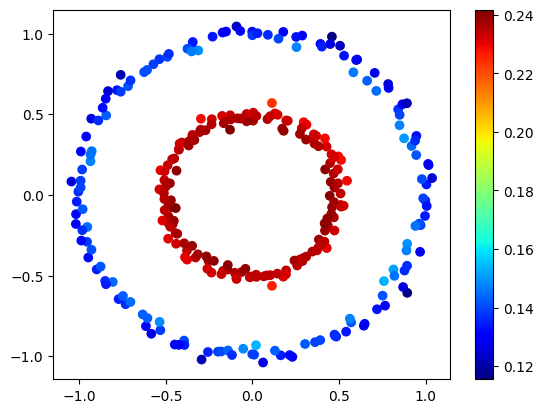
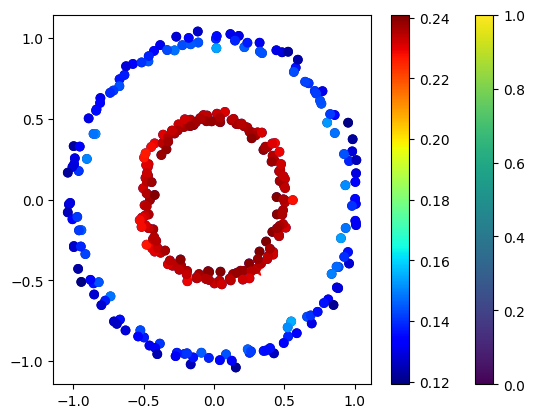
Adds results for circles

Changed region(s): [[0.0299, 0.0291, 0.8374, 0.9879], [0.8673, 0.0, 0.9869, 0.9588]]

diff --git a/src/diffusion_distances.py b/src/diffusion_distances.py
@@ -15,9 +15,13 @@ from sklearn.datasets import make_circles, make_blobs, make_swiss_roll
 
 def main():
     sigma = 0.175
-    X, t = make_swiss_roll(n_samples=1000)
 
-    # X, y = make_circles(n_samples=300, noise=0.03, factor=0.5)
+    X, y = make_circles(n_samples=300, noise=0.03, factor=0.5)
+    animate_diffusion(
+        X, sigma, 1e8, "_circles", plot_heatmap=True, animate=True)
+    lund(X, sigma, t=1e8, k=2, t_max=1e6,
+        plot_stub="_circles", animate_clustering=True, amimate_time_search=True)
+
     X, y = make_blobs(n_samples=[100]*16, cluster_std=0.5)
     
     X, y = make_bottleneck(100)
@@ -54,8 +58,10 @@ def animate_diffusion(X, sigma, t_max, stub, plot_heatmap=False, animate=False):
 
     # Hacky way to create an animated plot
     t = 1.0
-    paths = []
+    scatter_paths = []
+    heatmap_paths = []
     while t < t_max:
+        print(t)
         D = diffusion_distances(U, V, t)
         if X.shape[1] == 2:
             plt.scatter(X[:,0], X[:,1], c=D[:,1], cmap=plt.cm.jet)
@@ -68,31 +74,30 @@ def animate_diffusion(X, sigma, t_max, stub, plot_heatmap=False, animate=False):
             ax.scatter(X[ix,0], X[ix,1], X[ix,2], marker="*", s=100, c="red")
             ax.view_init(elev=18, azim=73)
 
-        plt.title("$t = {}$".format(int(t)))
+        plt.title("$t = 10^{{{:.3f}}}$".format(np.log10(t)))
         plt.axis("off")
         p = "../temp/dists{:.3f}.png".format(t)
-        paths.append(p)
+        scatter_paths.append(p)
         plt.savefig(p, bbox_inches="tight")
         plt.close()
 
         if plot_heatmap:
             plt.imshow(D, cmap="viridis")
-            plt.title("$t = {}".format(t))
-            plt.savefig("../temp/heatmap{}.png".format(t), bbox_inches="tight")
+            plt.title("$t = 10^{{{:.3f}}}$".format(np.log10(t)))
+            p = "../temp/heatmap{:.3f}.png".format(t)
+            plt.savefig(p, bbox_inches="tight")
+            heatmap_paths.append(p)
             plt.close()
         
-        t *= 1.3
+        t *= 1.5
 
     if animate:
-        animation_from_imgs(paths, "../output/diffusion{}.gif".format(stub))
+        animation_from_imgs(
+            scatter_paths, "../output/diffusion{}.gif".format(stub))
 
         if plot_heatmap:
-            paths = ["../temp/heatmap{}.png".format(t) for t in t_list]
-            animation_from_imgs(paths, "../output/heatmap{}.gif".format(stub))
-
-
-def logb(n, b):
-    return np.log(n) / np.log(b)
+            animation_from_imgs(
+                heatmap_paths, "../output/heatmap{}.gif".format(stub))
 
 
 def animation_from_imgs(paths, save_path):
@@ -178,7 +183,7 @@ def kernel(X, sigma):
 
 
 def lund(X, sigma, t=-1, k=-1, 
-        truncate=0.95, plot_stub="", 
+        truncate=0.95, plot_stub="", t_max=-1,
         bw=-1, animate_clustering=False, animate_time_search=True):
     W = kernel(X, sigma)
 
@@ -213,9 +218,11 @@ def lund(X, sigma, t=-1, k=-1,
     N = X.shape[0]
     ratios = []
     t = 1
-    while t < 1e14:
+    while t < t_max:
         dw, D = compute_weighted_dists(U, V, N, t, px)
         dws = -1*np.sort(-1*dw)
+        if np.all(dws == 0):
+            break 
         dws = np.clip(dws, dws[dws != 0].min(), dws.max())
         
         ratio = dws / np.roll(dws, -1)
@@ -262,6 +269,7 @@ def lund(X, sigma, t=-1, k=-1,
     counter = 0
     y_hat = np.zeros(X.shape[0])
     y_hat[ixs_dw[:k]] = np.arange(1,k+1)
+    paths = []
     for ix in ixs_px:
         if y_hat[ix] == 0:
             mask = np.logical_and(px >= px[ix], y_hat > 0)
@@ -274,26 +282,15 @@ def lund(X, sigma, t=-1, k=-1,
                 plt.scatter(X[ixs_dw[:k],0], X[ixs_dw[:k],1], 
                     marker="*", s=100, c="red")
                 plt.plot(X[[ix, ixy],0], X[[ix, ixy],1], c="cyan", lw=2)
-                plt.savefig("../temp/animate_cluster{}.png".format(counter))
+                p = "../temp/animate_cluster{}.png".format(counter)
+                paths.append(p)
+                plt.savefig(p)
                 plt.close()
             counter += 1
 
     if animate_clustering:
-        fig = plt.figure()
-        imgs = []
-        paths = filter(lambda x: "animate" in x, os.listdir("../temp"))
-        paths = sorted(paths, key=lambda x: int("".join(re.findall("\d", x))))
-        for p in paths:
-            img = plt.imread("../temp/{}".format(p))
-            imgs.append([plt.imshow(img)])
-            os.unlink("../temp/{}".format(p))
-        
-        ani = animation.ArtistAnimation(fig, imgs)
-        plt.axis("off")
-        
-        writer = animation.PillowWriter(fps=10)
-        path = "../output/animated_clustering{}.gif".format(plot_stub)
-        ani.save(path, writer=writer)
+        animation_from_imgs(
+            paths, "../output/animated_clustering{}.gif".format(plot_stub))
 
     if plot_stub != "":
         plt.scatter(X[:,0], X[:,1], c=y_hat, cmap=plt.cm.Paired)
